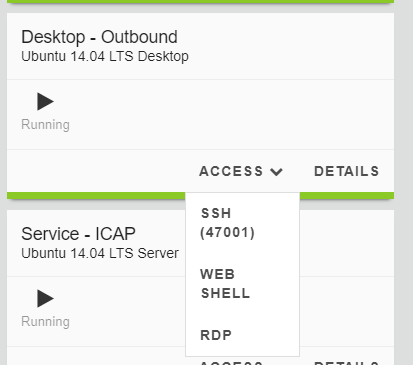
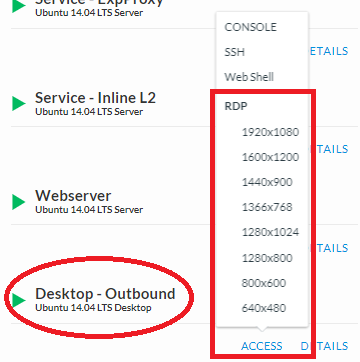
updated lab access info

diff --git a/docs/class1/labinfo.rst b/docs/class1/labinfo.rst
@@ -4,27 +4,28 @@
 SSL Orchestrator Lab Environment
 ================================
 
-
 Accessing the Virtual Lab
 -------------------------
 
-.. TODO:: Update instructions for new Agility Lab portal when available
+If you are not familiar with the process for joining a training course, refer to:
 
-To access your lab:
--  <fill in the blank>
+- `How to join a training course <https://help.udf.f5.com/en/articles/3832165-how-to-join-a-training-course>`_
+- `How to use the training course interface <https://help.udf.f5.com/en/articles/3832340-training-course-interface>`_
 
-Once connected to your lab environment, you should see the following resources
-in the **Components** tab.
+.. NOTE::
 
-.. image:: images/labinfo-1.png
-   :align: center
+   All of your lab exercise work will be done from a single jump host (accessed via Remove Desktop Protocol (RDP) client).
+   
+   You will not need to use SSH to access the UDF lab environment, so no SSH Key needs to be conffigured.
 
-To connect to a component, click on the **ACCESS**
-drop-down and select either the **TMUI**, **SSH**, **RDP** option.
+From the :bred:`DEPLOYMENT` tab, you will access the :bred:`DESKTOP-OUTBOUND` system over RDP. 
+You can select the window resolution for the RDP session. An RDP file will be downloaded to your local
+system and you will need to open it to connect.
+
+|
 
 .. image:: images/labinfo-2.png
    :align: center
-
 
 Lab Details
 -----------
@@ -34,9 +35,7 @@ the BIG-IP GUI.
 
 .. IMPORTANT:: The lab environment for this guide has provided some
    prerequisite settings that you should be aware of. These are provided to
-   make the lab simpler. All of the following items would need to be configured
-   manually in another environment.
-
+   make the lab simpler.
 
    The following information is based on a custom :bred:`UDF` blue print named
    :bred:`Agility 2020 - Essential SSL Visibility with SSLO`.
@@ -229,4 +228,3 @@ service type.
 
 .. image:: images/labinfo-3.png
    :align: center
-
